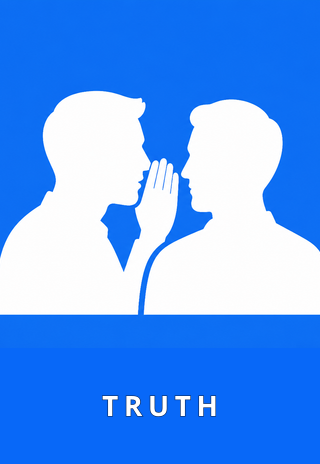
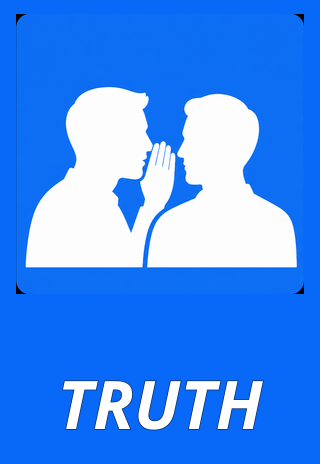
refactor: card layout with full contain silhouettes and bold label band
Clarify 160×232 (1.45) card ratio; fit art in top 75% with contain and
upper placement; bottom 25% full-width bold italic TRUTH/DARE.

diff --git a/assets/README.md b/assets/README.md
@@ -7,6 +7,17 @@
 | `truth-card-preview.png` | 真心話牌面（含剪影） |
 | `dare-card-draft.png` | 大冒險牌面（含剪影） |
 
-亦可使用同名 `.svg`。建置腳本會輸出 **320×464**（@2x，對應 UI 160×232）至 `public/images/cards/`，剪影置於上方 **75%**，底部 **25%** 疊上白字與細線框標籤。
+亦可使用同名 `.svg`。
+
+## 卡牌尺寸（與 `public/index.html` 牌堆一致）
+
+| 版本 | 寬 × 高 | 高寬比 |
+|------|---------|--------|
+| @1x（CSS `--card-w` / `--card-h`） | **160 × 232 px** | **1.45**（高 > 寬） |
+| @2x（建置輸出） | **320 × 464 px** | 同上 |
+
+直式比例約 **5∶7.25**，接近常見撲克牌 **5∶7**（1.4）。您附圖中的藍色牌堆即此比例。
+
+建置版面：上方 **75%** 完整容納白色剪影（`contain`、水平置中、略偏上）；下方 **25%** 為加粗斜體、橫跨全寬的 **TRUTH** / **DARE**。
 
 環境變數 `CARD_SRC_DIR` 可指定其他來源目錄。
